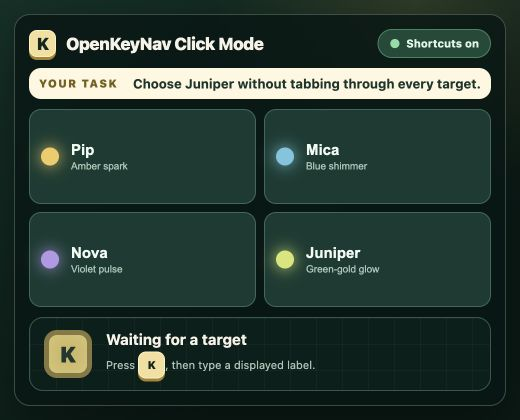
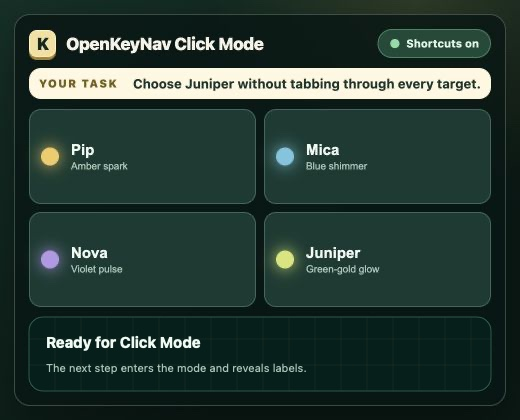
readme update

Changed region(s): [[0.0308, 0.7429, 0.9231, 0.9595], [0.9231, 0.7738, 0.9538, 0.8976]]

diff --git a/dev/readme-visual/demo.html b/dev/readme-visual/demo.html
@@ -177,21 +177,6 @@
       border-radius: 14px;
     }
 
-    .result-icon {
-      display: grid;
-      width: 86px;
-      height: 86px;
-      margin-bottom: 18px;
-      place-items: center;
-      color: #1c382d;
-      background: #c9b45d;
-      border: 8px solid #86783f;
-      border-radius: 22px;
-      box-shadow: inset 0 0 22px rgba(255, 247, 186, 0.34);
-      font-size: 34px;
-      font-weight: 950;
-    }
-
     .result strong { font-size: 18px; }
     .result p { margin: 5px 18px 0; color: #a8c5b8; font-size: 13px; }
 
@@ -199,13 +184,6 @@
       background-color: #11392e;
       border-color: #9ed56f;
       box-shadow: inset 0 0 54px rgba(213, 228, 104, 0.15);
-    }
-
-    body[data-complete="true"] .result-icon {
-      color: #173227;
-      background: #d9e56f;
-      border-color: #87913d;
-      box-shadow: 0 0 38px rgba(217, 229, 111, 0.65);
     }
 
     /* Compact, fixed geometry keeps all three storyboard panels comparable. */
@@ -272,29 +250,24 @@
 
     .result {
       flex: none;
-      flex-direction: row;
+      align-items: flex-start;
+      flex-direction: column;
       justify-content: flex-start;
       height: 74px;
-      padding: 10px 14px;
+      padding: 13px 16px;
       text-align: left;
-    }
-
-    .result-icon {
-      width: 48px;
-      height: 48px;
-      margin: 0 14px 0 0;
-      border-width: 5px;
-      border-radius: 13px;
-      font-size: 22px;
     }
 
     .result strong { font-size: 15px; }
     .result p { margin: 3px 0 0; font-size: 11px; }
     .result-copy { min-width: 0; }
 
+    body[data-click-mode="true"] .result { padding-left: 52px; }
+
     .openKeyNav-label {
       min-width: 30px !important;
       padding: 5px 8px !important;
+      box-shadow: 0 3px 0 #061914, 0 0 0 1px rgba(255, 255, 255, 0.82) !important;
       font-size: 24px !important;
       font-weight: 900 !important;
       line-height: 1 !important;
@@ -334,10 +307,9 @@
       </section>
 
       <section class="result" aria-live="polite">
-        <div class="result-icon" aria-hidden="true">K</div>
         <div class="result-copy">
-          <strong id="result-title">Waiting for a target</strong>
-          <p id="result-copy">Press <kbd>K</kbd>, then type a displayed label.</p>
+          <strong id="result-title">Ready for Click Mode</strong>
+          <p id="result-copy">The next step enters the mode and reveals labels.</p>
         </div>
       </section>
     </div>
@@ -348,9 +320,17 @@
     const resultTitle = document.getElementById('result-title');
     const resultCopy = document.getElementById('result-copy');
 
+    document.addEventListener('keydown', (event) => {
+      if (event.key.toLowerCase() !== 'k') return;
+      document.body.dataset.clickMode = 'true';
+      resultTitle.textContent = 'Click Mode active';
+      resultCopy.textContent = 'Type one of the displayed labels.';
+    }, true);
+
     document.querySelectorAll('.target').forEach((target) => {
       target.addEventListener('click', () => {
         const name = target.dataset.name;
+        delete document.body.dataset.clickMode;
         document.body.dataset.complete = 'true';
         resultTitle.textContent = `${name} selected`;
         resultCopy.textContent = name === 'Juniper'
@@ -364,9 +344,9 @@
       debug: {keyboardAccessible: false},
       notifications: {enabled: false},
       spot: {
-        fontColor: '#10271f',
-        backgroundColor: '#f3df9a',
-        insetColor: '#10271f',
+        fontColor: '#071b16',
+        backgroundColor: '#25c2a0',
+        insetColor: 'rgba(255, 255, 255, 0.28)',
         fontSize: '24px',
         arrowSize_px: 7,
       },

diff --git a/tests/keypress.test.js b/tests/keypress.test.js
@@ -118,6 +118,31 @@ describe('keypress structural-mode arbitration', () => {
   });
 
   it.each([
+    {
+      label: 'k',
+      key: 'k',
+      modifiers: {},
+      expectedModifier: false,
+    },
+    {
+      label: 'Shift+K',
+      key: 'K',
+      modifiers: { shiftKey: true },
+      expectedModifier: true,
+    },
+  ])('opens Click Mode with $label', ({ key, modifiers, expectedModifier }) => {
+    openKeyNav = createOpenKeyNav();
+    const current = document.getElementById('current');
+    current.focus();
+
+    const event = dispatchKey(current, key, 'KeyK', modifiers);
+
+    expect(event.defaultPrevented).toBe(true);
+    expect(openKeyNav.config.modes.clicking.value).toBe(true);
+    expect(openKeyNav.config.modesConfig.click.modifier).toBe(expectedModifier);
+  });
+
+  it.each([
     { mode: 'clicking', activationKey: 'k', activationCode: 'KeyK' },
     { mode: 'moving', activationKey: 'm', activationCode: 'KeyM' },
     { mode: 'menu', activationKey: 'o', activationCode: 'KeyO' },

diff --git a/dev/readme-visual/storyboard.html b/dev/readme-visual/storyboard.html
@@ -145,7 +145,7 @@
     <section class="step">
       <div class="step-heading">
         <span class="number">2</span>
-        <div><h2>Reveal target labels</h2><p>Press <kbd>K</kbd> without Shift.</p></div>
+        <div><h2>Reveal target labels</h2><p>Press <kbd>K</kbd> to enter Click Mode.</p></div>
       </div>
       <div class="frame"><img src="captures/step-2.jpg" alt="Click Mode labels beside each available target"></div>
     </section>

diff --git a/README.md b/README.md
@@ -5,7 +5,7 @@
 
 OpenKeyNav is an MIT-licensed JavaScript library for adding on-demand target labels, direct keyboard navigation, and application-configured keyboard drag-and-drop to websites and web apps.
 
-[![Three-step Click Mode demonstration: enable OpenKeyNav shortcuts with Shift+O, press K to show labels beside four detected targets, then type d to select Juniper.](https://raw.githubusercontent.com/LDubya/OpenKeyNav/main/media/openkeynav-click-mode-steps.jpg)](https://openkeynav.com/#demo)
+[![Three-step Click Mode demonstration: enable OpenKeyNav shortcuts with Shift+O, press K to enter Click Mode and show labels beside four detected targets, then type d to select Juniper.](https://raw.githubusercontent.com/LDubya/OpenKeyNav/main/media/openkeynav-click-mode-steps.jpg)](https://openkeynav.com/#demo)
 
 [Live demo](https://openkeynav.com/#demo) · [Documentation](https://openkeynav.com/docs/getting_started/quick_start_guide) · [OpenKeyNav on npm](https://www.npmjs.com/package/openkeynav) · [GitHub](https://github.com/LDubya/OpenKeyNav)
 
@@ -63,7 +63,7 @@ The UMD build exposes `OpenKeyNav` as a browser global. Update the version pin d
 With focus outside an editable field:
 
 1. If OpenKeyNav shortcuts are off, press `Shift+o` to turn them on.
-2. Press `k` without `Shift` to label detected interactive targets.
+2. Press `k` to enter Click Mode.
 3. Type the label shown beside a target. OpenKeyNav focuses or activates the selected target as appropriate.
 4. Press `Escape` to leave the current mode.
 
